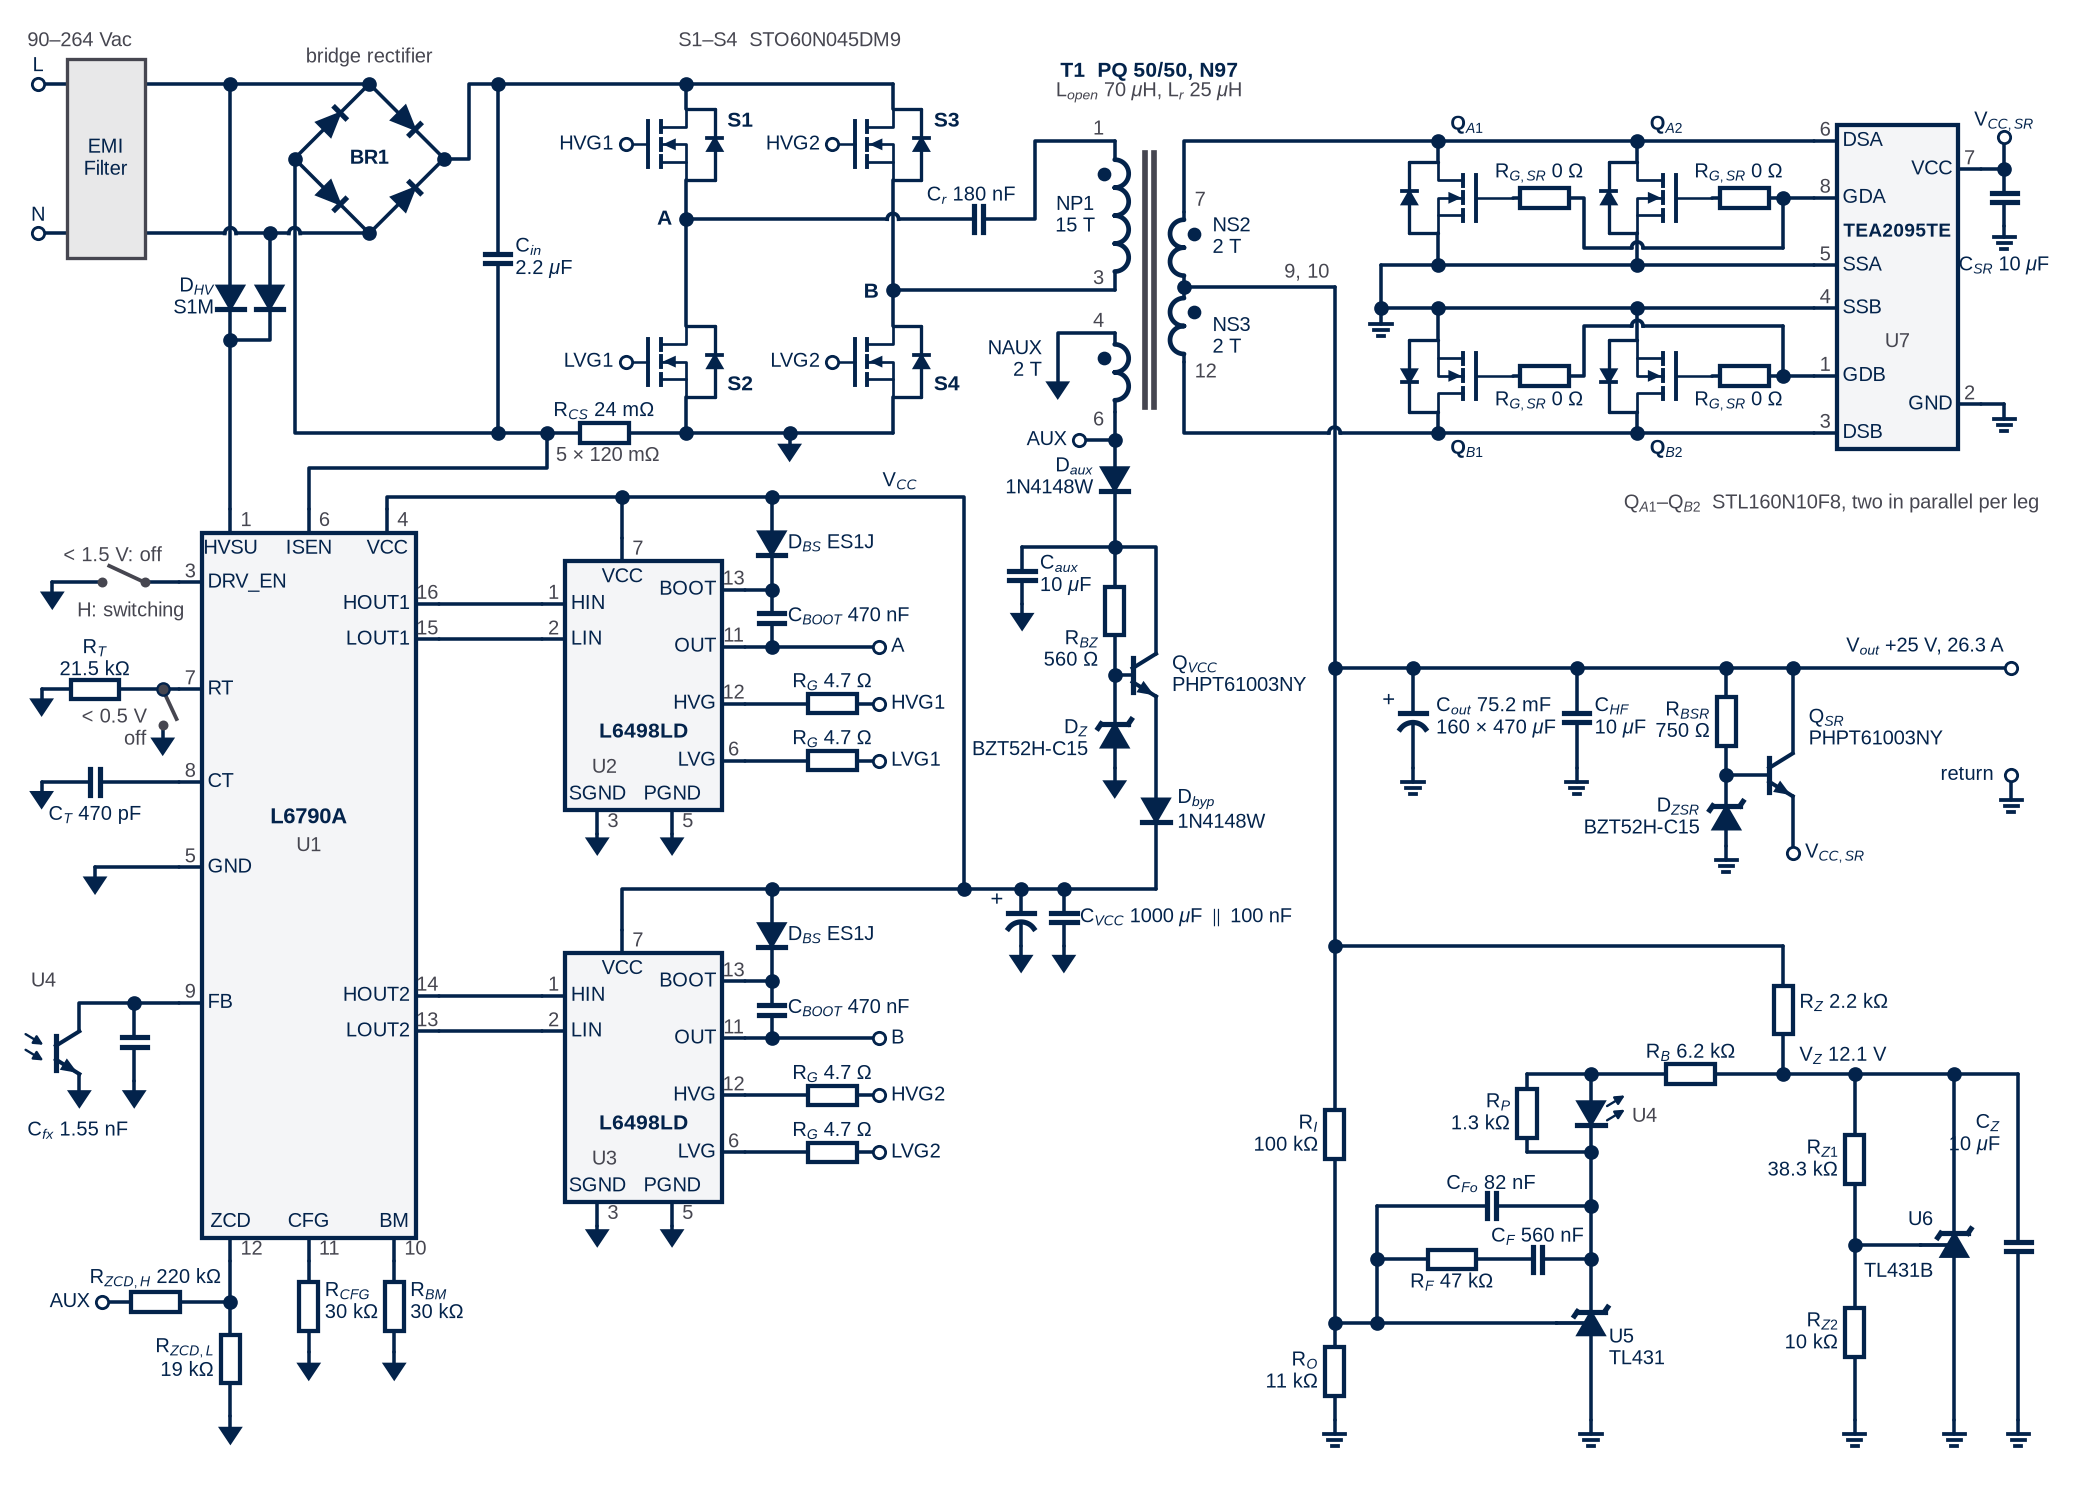
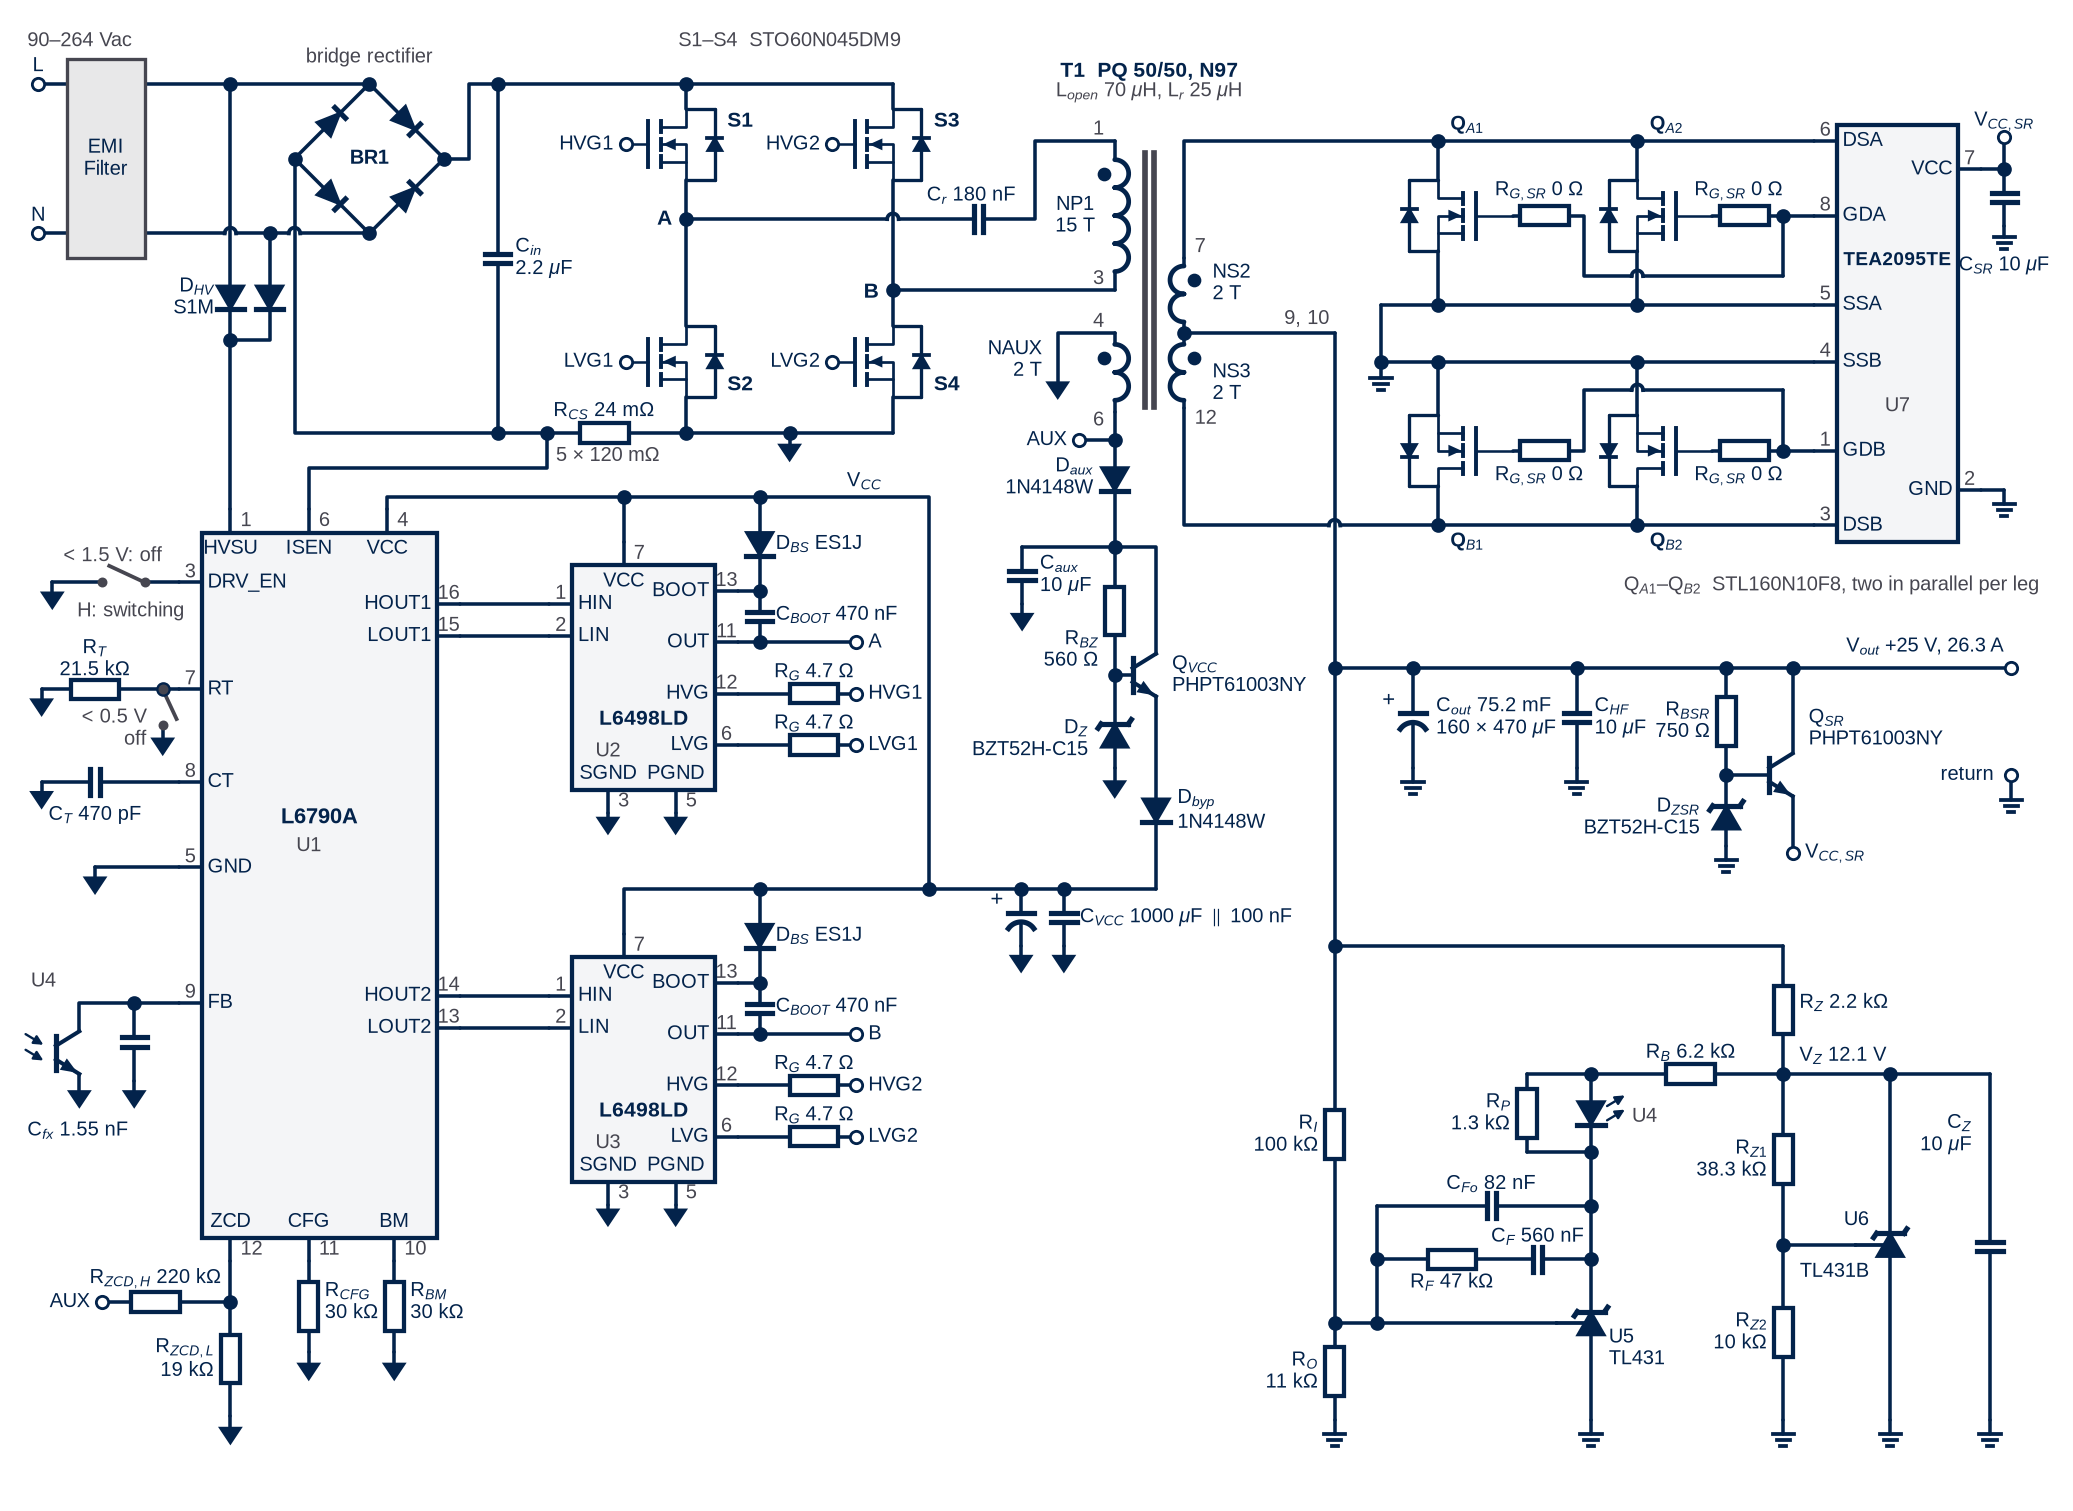
Round 84 (in progress): full schematic — U1 wider, drivers smaller, SR stage taller, R_Z over R_Z1
Claude-Session: https://claude.ai/code/session_01L3H8Na8buSZY2uPpuuSkn7

diff --git a/Design Guide/generators/figs_ref.py b/Design Guide/generators/figs_ref.py
@@ -4555,7 +4555,7 @@ def an_full(save, foot):
     # ================================================= T1
     XC = 31.6
     YT1 = 37.8                             # pin 1
-    YS7 = 35.8                             # pin 7: NS2 + NS3 centred between
+    YS7 = 34.5                             # pin 7: NS2 + NS3 centred between
     #                                        the two SR drain buses (37.8, YG)
     (p1, p3), (p4, p6), (s7, s9), (s10, s12) = _xf(
         ax, XC, [('L', YT1, YB, 4), ('L', 32.4, 30.2, 2),
@@ -4605,11 +4605,11 @@ def an_full(save, foot):
     XA = xw
 
     # ================================================= controller U1
-    U1 = _ic(ax, 5.0, 7.0, 11.0, 26.8, 'L6790A',
+    U1 = _ic(ax, 5.0, 7.0, 11.6, 26.8, 'L6790A',
              [('T', XHV, 1, 'HVSU'), ('T', 8.0, 6, 'ISEN'),
               ('T', 10.2, 4, 'VCC'),
-              ('R', 24.8, 16, 'HOUT1'), ('R', 23.8, 15, 'LOUT1'),
-              ('R', 13.8, 14, 'HOUT2'), ('R', 12.8, 13, 'LOUT2'),
+              ('R', 24.8, 16, 'HOUT1'), ('R', 23.9, 15, 'LOUT1'),
+              ('R', 13.8, 14, 'HOUT2'), ('R', 12.9, 13, 'LOUT2'),
               ('B', XHV, 12, 'ZCD'), ('B', 8.0, 11, 'CFG'),
               ('B', 10.4, 10, 'BM'),
               ('L', 25.4, 3, 'DRV_EN'), ('L', 22.4, 7, 'RT'),
@@ -4690,23 +4690,23 @@ def an_full(save, foot):
         pg(x_, 3.8)
 
     # ================================================= drivers U2, U3
-    YV, XO, YO = 27.8, 26.4, 16.8
-    W_, H_ = 4.4, 7.0
-    XD = 15.2
+    YV, XO, YO = 27.8, 25.4, 16.8
+    W_, H_ = 4.0, 6.3                      # 0.9 x the first drawing, as is
+    XD = 15.4                              # everything hung off the box
 
     def driver(x0, y0, nm, leg):
         u = _ic(ax, x0, y0, x0 + W_, y0 + H_, 'L6498LD',
-                [('L', y0 + 5.8, 1, 'HIN'), ('L', y0 + 4.8, 2, 'LIN'),
-                 ('T', x0 + 1.6, 7, 'VCC'),
-                 ('B', x0 + 0.9, 3, 'SGND'), ('B', x0 + 3.0, 5, 'PGND'),
-                 ('R', y0 + 6.2, 13, 'BOOT'), ('R', y0 + 4.6, 11, 'OUT'),
-                 ('R', y0 + 3.0, 12, 'HVG'), ('R', y0 + 1.4, 6, 'LVG')],
-                ref=y0 + 2.2, size=SN, psize=SN, tsize=9.0, tpad=0.45)
-        S.label(ax, x0 + 1.1, y0 + 1.2, nm, size=SN, color=GREY)
+                [('L', y0 + 5.22, 1, 'HIN'), ('L', y0 + 4.32, 2, 'LIN'),
+                 ('T', x0 + 1.44, 7, 'VCC'),
+                 ('B', x0 + 1.0, 3, 'SGND'), ('B', x0 + 2.9, 5, 'PGND'),
+                 ('R', y0 + 5.58, 13, 'BOOT'), ('R', y0 + 4.14, 11, 'OUT'),
+                 ('R', y0 + 2.7, 12, 'HVG'), ('R', y0 + 1.26, 6, 'LVG')],
+                ref=y0 + 1.98, size=SN, psize=SN, tsize=9.0, tpad=0.45)
+        S.label(ax, x0 + 1.0, y0 + 1.08, nm, size=SN, color=GREY)
         for pin in ('SGND', 'PGND'):
             gx, gy = u[pin]
             pg(gx, gy, 0.15)
-        xb = x0 + W_ + 1.4
+        xb = x0 + W_ + 1.26
         bx, by = u['BOOT']
         ox, oy = u['OUT']
         hx, hy = u['HVG']
@@ -4719,7 +4719,7 @@ def an_full(save, foot):
         S.dot(ax, xb, oy)
         S.label(ax, xb + 0.45, (by + oy) / 2.0 + 0.05,
                 'C$_{BOOT}$ ' + _c(_sv('C.BOOT')), size=SN, ha='left')
-        xr, xf = xb + 1.7, xb + 3.0
+        xr, xf = xb + 1.53, xb + 2.7
         S.wire(ax, [(ox, oy), (xf, oy)])
         flag(xf, oy, 'A' if leg == '1' else 'B')
         for yy, nmg in ((hy, 'HVG'), (ly, 'LVG')):
@@ -4729,8 +4729,8 @@ def an_full(save, foot):
             flag(xf, yy, nmg + leg)
             S.label(ax, xr, yy + 0.6, 'R$_G$ ' + _r(_sv('R.G')), size=SN)
         return u, xb, by
-    u2, xb2, by2 = driver(XD, 19.0, 'U2', '1')
-    u3, xb3, by3 = driver(XD, 8.0, 'U3', '2')
+    u2, xb2, by2 = driver(XD, 19.58, 'U2', '1')   # HIN level with HOUT1
+    u3, xb3, by3 = driver(XD, 8.58, 'U3', '2')
     for a_, b_ in ((U1['HOUT1'], u2['HIN']), (U1['LOUT1'], u2['LIN']),
                    (U1['HOUT2'], u3['HIN']), (U1['LOUT2'], u3['LIN'])):
         S.wire(ax, [a_, b_])
@@ -4740,7 +4740,7 @@ def an_full(save, foot):
     S.wire(ax, [u2['VCC'], (u2['VCC'][0], YV)])
     S.dot(ax, u2['VCC'][0], YV)
     S.wire(ax, [u3['VCC'], (u3['VCC'][0], YO), (XO, YO)])
-    S.label(ax, 24.6, YV + 0.45, 'V$_{CC}$', size=SZ)
+    S.label(ax, 23.6, YV + 0.45, 'V$_{CC}$', size=SZ)
     for xb_, ytop, by_ in ((xb2, YV, by2), (xb3, YO, by3)):
         yd = (ytop + by_) / 2.0
         da, dk = S.diode(ax, xb_, yd, horiz=False, flip=True)
@@ -4801,8 +4801,8 @@ def an_full(save, foot):
     S.label(ax, XV - 0.15, YCT + 0.4, '%d, %d' % (_pm['NS2'][1][0],
                                                    _pm['NS3'][0][0]),
             size=SN, color=GREY, ha='right')
-    YDA, YCA_, YSA, HOPA = YT1, 36.2, 34.3, 34.8
-    YDB, YCB, YSB, HOPB = YG, 31.2, 33.1, 32.6
+    YDA, YCA_, YSA, HOPA = YT1, 35.7, 33.2, 34.0
+    YDB, YCB, YSB, HOPB = 27.0, 29.1, 31.6, 30.8
     XQ1, XQ2 = 39.7, 45.3
     MGS = 2.1                              # gate lead: the resistor clear
     #                                        of the gate
@@ -4815,7 +4815,7 @@ def an_full(save, foot):
             [('L', YDA, 6, 'DSA'), ('L', YCA_, 8, 'GDA'),
              ('L', YSA, 5, 'SSA'), ('L', YSB, 4, 'SSB'),
              ('L', YCB, 1, 'GDB'), ('L', YDB, 3, 'DSB'),
-             ('R', 37.0, 7, 'VCC'), ('R', 30.4, 2, 'GND')],
+             ('R', 37.0, 7, 'VCC'), ('R', 28.0, 2, 'GND')],
             ref=(YCA_ + YSA) / 2.0, size=SN, psize=SN, tsize=8.2, tpad=0.45)
     S.label(ax, TX0 + 1.7, (YSB + YCB) / 2.0, 'U7', size=SN, color=GREY)
     gx_, gy_ = c['GND']
@@ -4880,7 +4880,7 @@ def an_full(save, foot):
     S.wire(ax, [s12, (xs, YDB), (XV - R, YDB)])
     X.hop(ax, XV, YDB, r=R)
     S.wire(ax, [(XV + R, YDB), (XQ2, YDB)])
-    S.label(ax, 56.6, 27.6, 'Q$_{A1}$–Q$_{B2}$  STL160N10F8, two in parallel '
+    S.label(ax, 56.6, 25.3, 'Q$_{A1}$–Q$_{B2}$  STL160N10F8, two in parallel '
             'per leg', size=SN, color=GREY, ha='right')
 
     # ================================================= output bank
@@ -4978,14 +4978,15 @@ def an_full(save, foot):
     S.wire(ax, [(XK, YLC), (XPr, YLC)])
     vres(XPr, YLA, YLC, 'R$_P$\n' + _r(_sv('R.P') * 1e3), side='l')
     # the LED rail V_Z: R_Z from V_out, U6 as a shunt regulator (16.1b)
-    XRB_, XRZ_, XZD, XU6, XCZ = 46.8, 49.4, 51.4, 54.2, 56.0
+    XRB_, XRZ_, XU6, XCZ = 46.8, 49.4, 52.4, 55.2
+    XZD = XRZ_                             # R_Z1 straight under R_Z
     S.wire(ax, [(XV, YT), (XRZ_, YT)])
     ra, rb = S.res(ax, XRB_, YLA)
     S.wire(ax, [(XK, YLA), ra])
     S.wire(ax, [rb, (XCZ, YLA)])
     S.label(ax, XRB_, YLA + 0.6, 'R$_B$ ' + _r(_sv('R.B') * 1e3), size=SZ)
     vres(XRZ_, YT, YLA, 'R$_Z$ ' + _r(_sv('R.Z_sel')), yl=13.6)
-    for x in (XRZ_, XZD, XU6):
+    for x in (XRZ_, XU6):
         S.dot(ax, x, YLA)
     S.label(ax, XRZ_ + 0.45, YLA + 0.5, 'V$_Z$ %.1f V' % _sv('V.Z'),
             size=SZ, ha='left')
